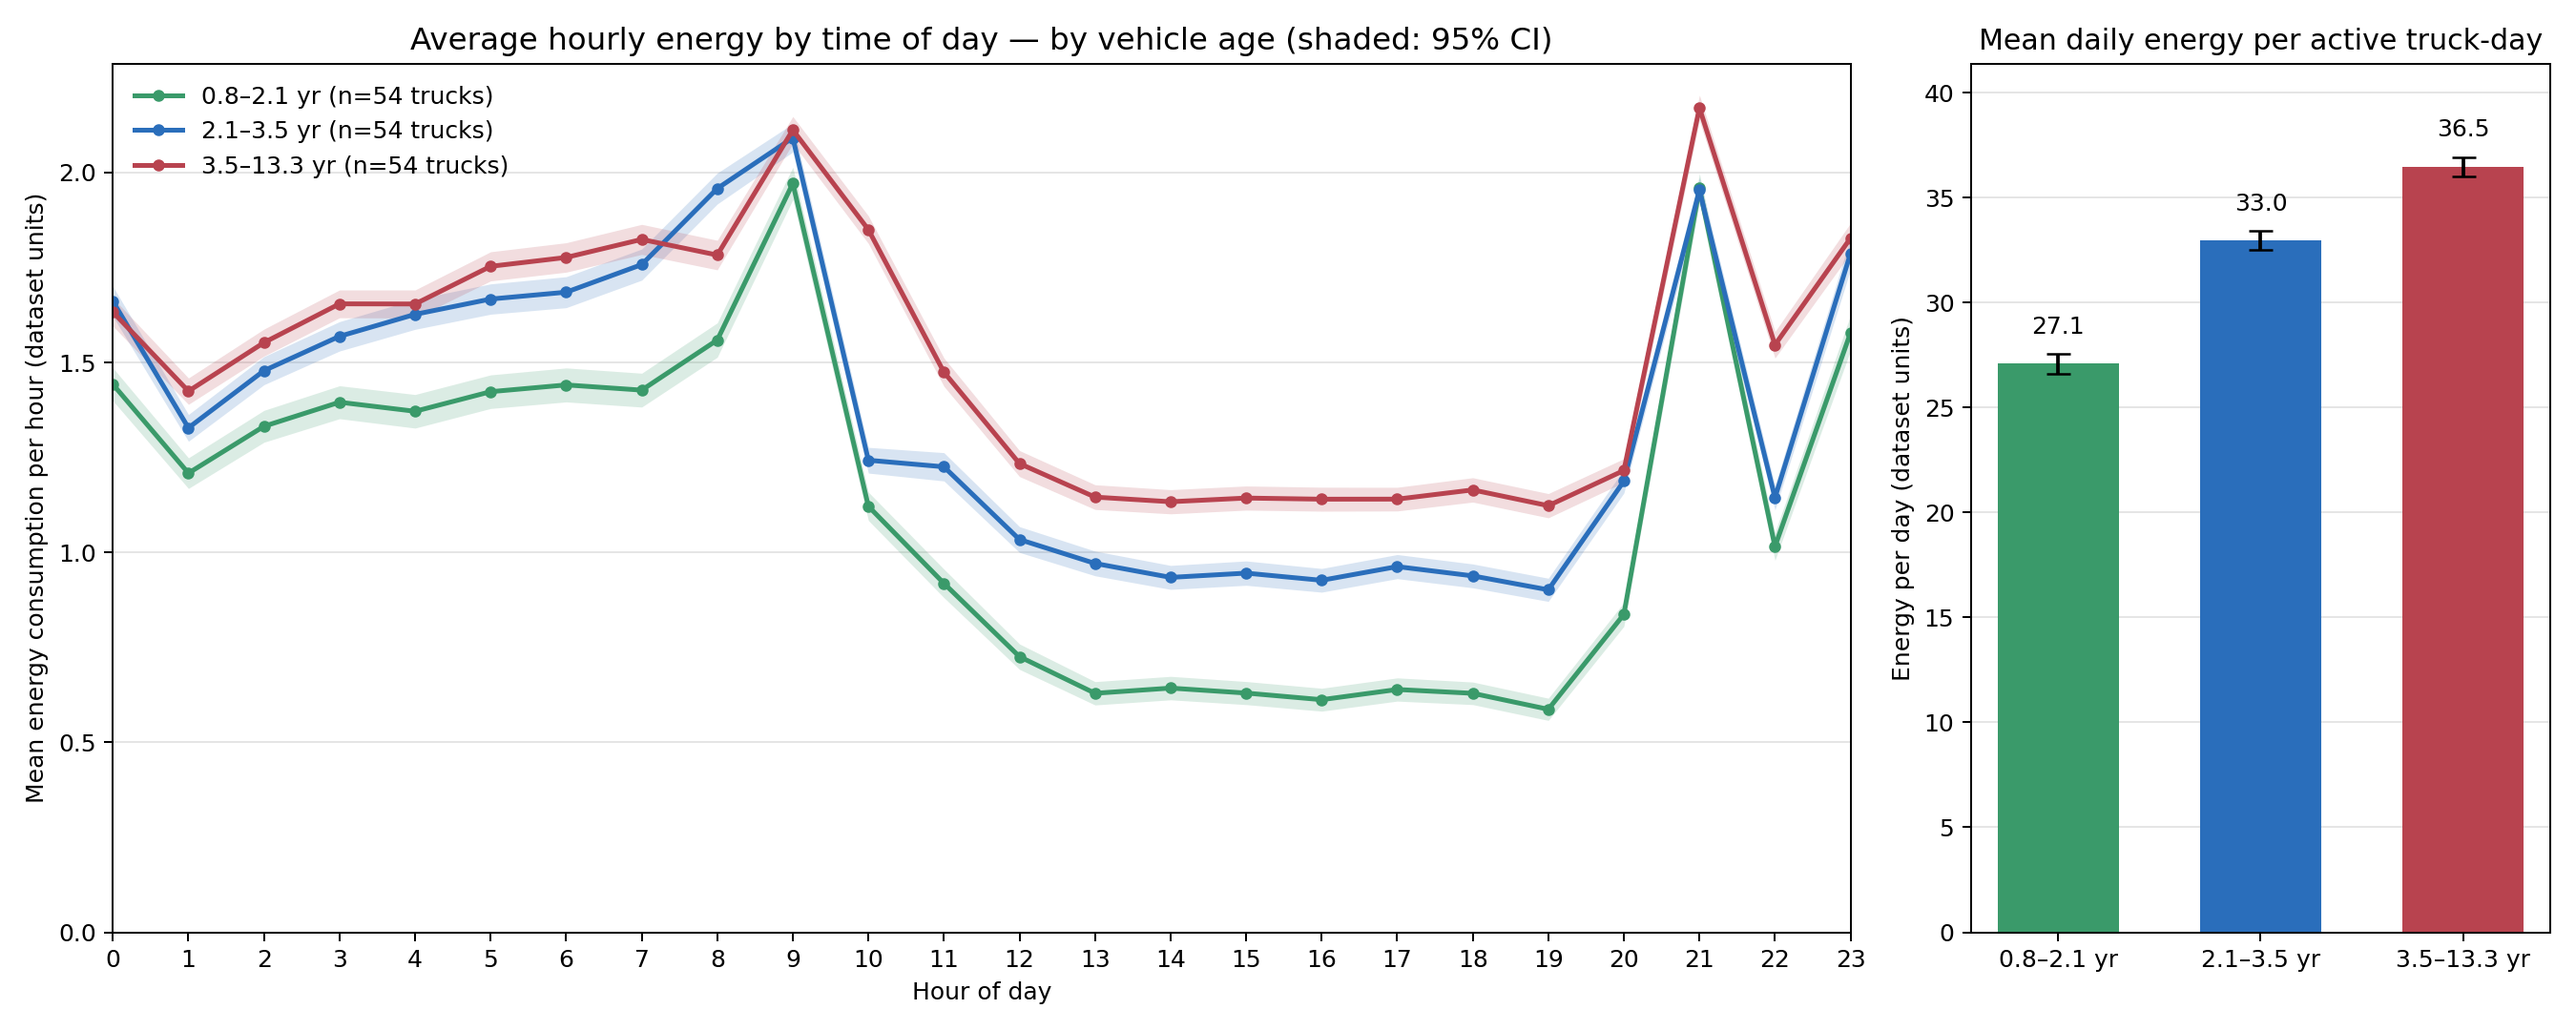
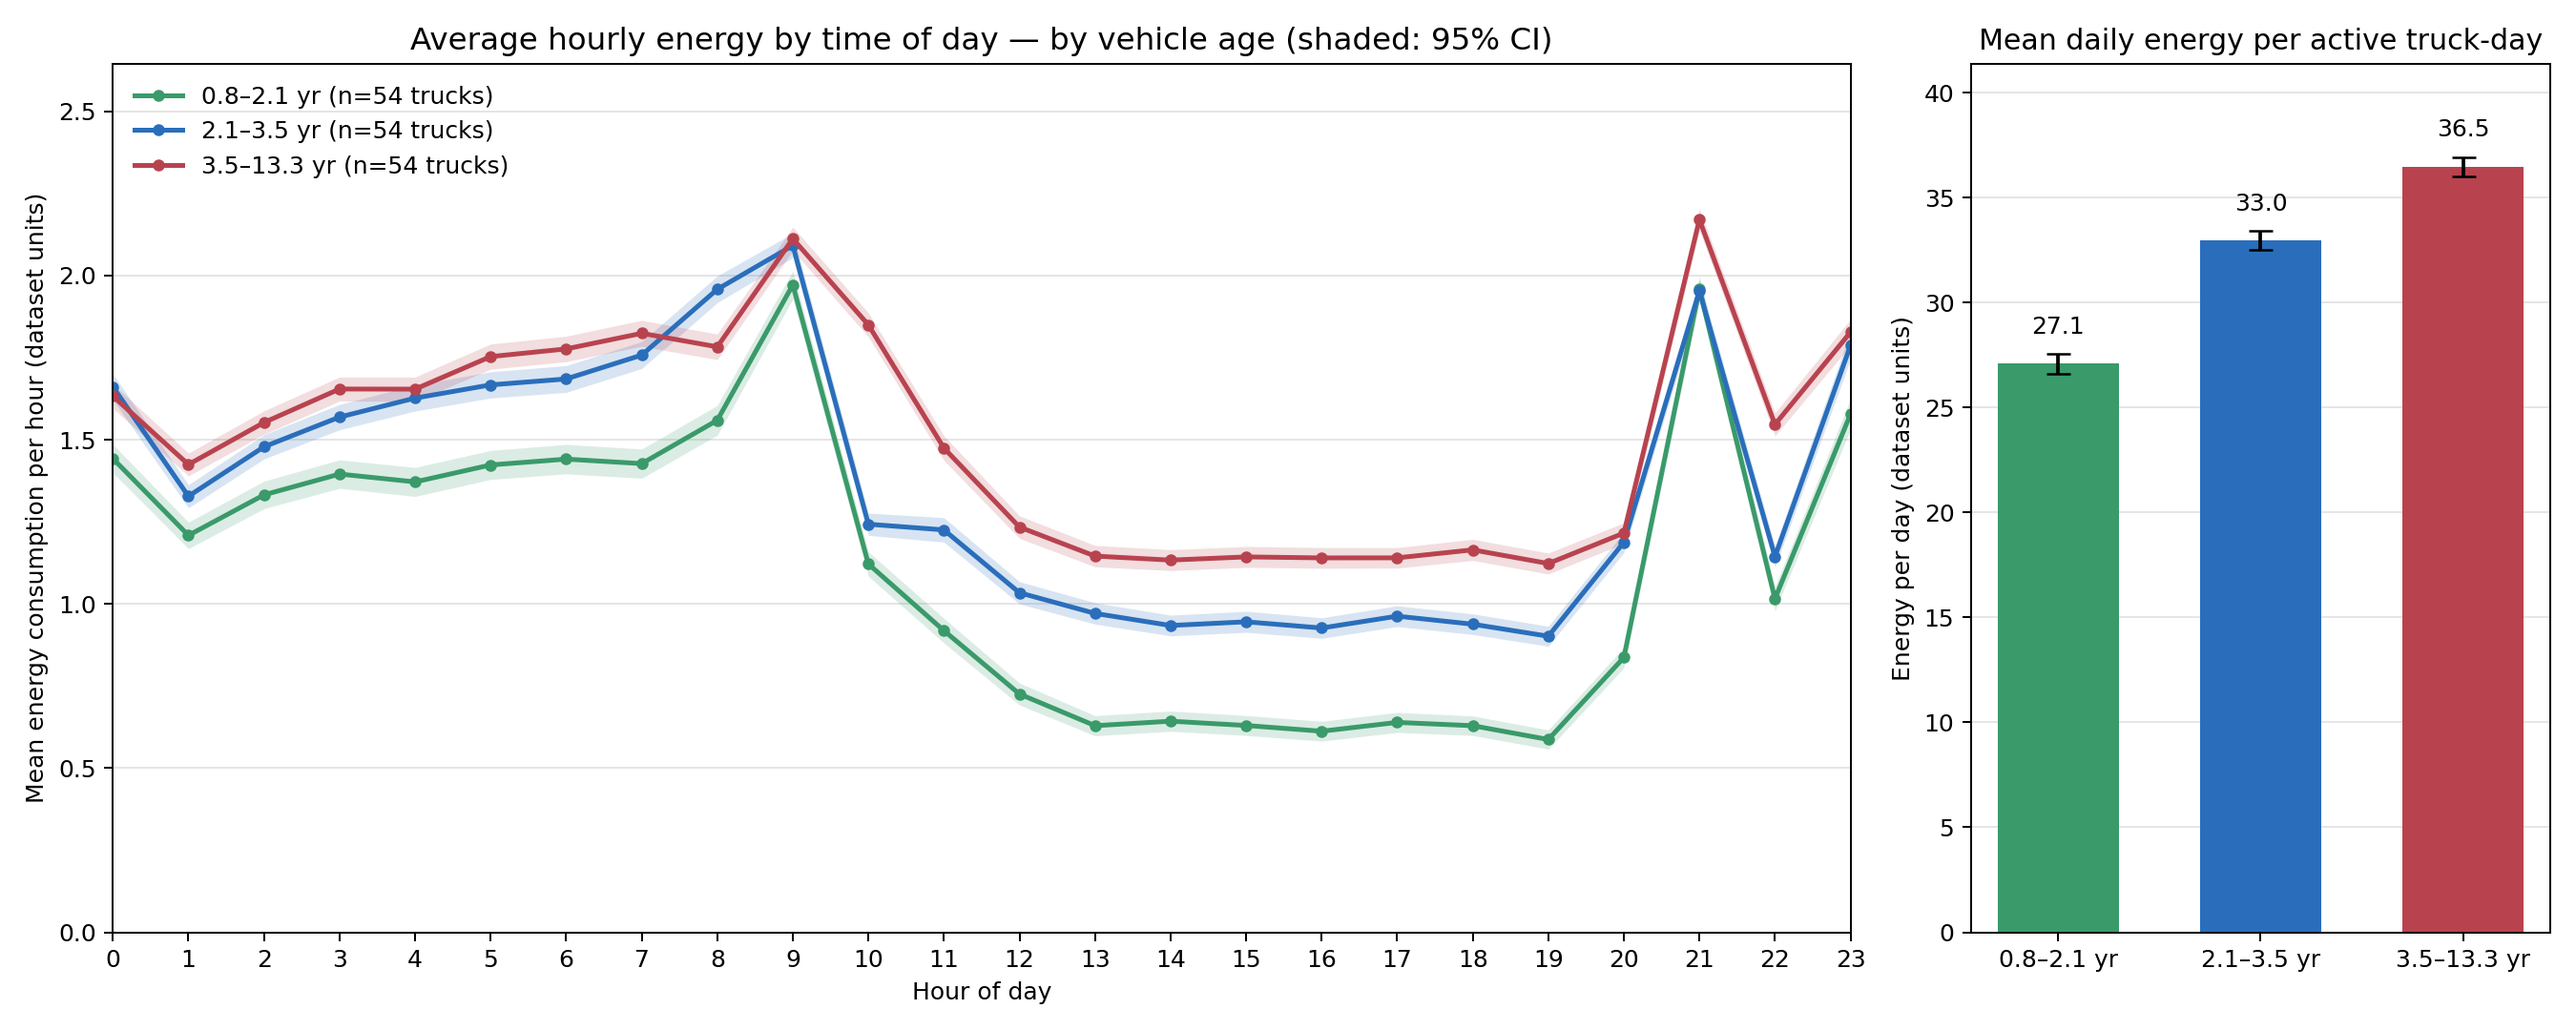
Add energy-by-odometer (km) tertile plot
Generalise the age tertile grouping to any fleet column, add Km's groups
as a fourth row of the combined figure, and leave legend headroom above
the lines in every group plot.

Changed region(s): [[0.0311, 0.0917, 0.7156, 0.7333]]

diff --git a/energy_uncertainty/plot_hourly_energy_by_time_of_day.py b/energy_uncertainty/plot_hourly_energy_by_time_of_day.py
@@ -80,6 +80,7 @@ def main():
         (category_groups(hourly), "truck_category_average_energy_by_time_of_day_ci.png"),
         (duty_cycle_groups(hourly), "duty_cycle_average_energy_by_time_of_day_ci.png"),
         (age_groups(hourly), "age_group_average_energy_by_time_of_day_ci.png"),
+        (km_groups(hourly), "km_group_average_energy_by_time_of_day_ci.png"),
     ]
 
     for grouping, fname in groupings:
@@ -89,8 +90,9 @@ def main():
         fig.savefig(HERE / fname)
         plt.close(fig)
 
-    fig, axes = plt.subplots(3, 2, figsize=(15, 18), dpi=180, gridspec_kw={"width_ratios": [3, 1]})
-    for (ax, bx), (grouping, _), tag in zip(axes, groupings, "abc"):
+    fig, axes = plt.subplots(len(groupings), 2, figsize=(15, 6 * len(groupings)), dpi=180,
+                             gridspec_kw={"width_ratios": [3, 1]})
+    for (ax, bx), (grouping, _), tag in zip(axes, groupings, "abcdefgh"):
         draw_groups(ax, bx, *grouping)
         ax.set_title(f"({tag}) {ax.get_title()}", fontsize=13)
     fig.tight_layout(h_pad=2.5)
@@ -112,17 +114,27 @@ def duty_cycle_groups(hourly: pd.DataFrame):
     return h, order, [DUTY_COLORS[d] for d in order], "duty cycle"
 
 
-def age_groups(hourly: pd.DataFrame):
-    """Energy by vehicle age, split into three equal-count groups (tertiles)."""
-    fleet = pd.read_csv(FLEET, usecols=["VehicleId", "Age"]).dropna()
+def tertile_groups(hourly: pd.DataFrame, column: str, fmt, unit: str, what: str):
+    """Split trucks into three equal-count groups (tertiles) on a fleet column."""
+    fleet = pd.read_csv(FLEET, usecols=["VehicleId", column]).dropna()
     fleet = fleet.rename(columns={"VehicleId": "TruckId"})
     fleet["TruckId"] = fleet["TruckId"].astype(int)
     fleet = fleet[fleet["TruckId"].isin(hourly["TruckId"].unique())]
-    edges = fleet["Age"].quantile([0, 1 / 3, 2 / 3, 1]).to_numpy()
-    labels = [f"{edges[0]:.1f}–{edges[1]:.1f} yr", f"{edges[1]:.1f}–{edges[2]:.1f} yr", f"{edges[2]:.1f}–{edges[3]:.1f} yr"]
-    fleet["group"] = pd.qcut(fleet["Age"], 3, labels=labels).astype(str)
+    edges = fleet[column].quantile([0, 1 / 3, 2 / 3, 1]).to_numpy()
+    labels = [f"{fmt(lo)}–{fmt(hi)} {unit}" for lo, hi in zip(edges[:-1], edges[1:])]
+    fleet["group"] = pd.qcut(fleet[column], 3, labels=labels).astype(str)
     h = hourly.merge(fleet[["TruckId", "group"]], on="TruckId", how="inner")
-    return h, labels, AGE_COLORS, "vehicle age"
+    return h, labels, AGE_COLORS, what
+
+
+def age_groups(hourly: pd.DataFrame):
+    """Energy by vehicle age, split into tertiles."""
+    return tertile_groups(hourly, "Age", lambda v: f"{v:.1f}", "yr", "vehicle age")
+
+
+def km_groups(hourly: pd.DataFrame):
+    """Energy by odometer reading (Km's), split into tertiles."""
+    return tertile_groups(hourly, "Km's", lambda v: f"{v / 1000:.0f}k", "km", "odometer (km)")
 
 
 def draw_groups(ax, bx, h: pd.DataFrame, order: list[str], colors: list[str], what: str) -> None:
@@ -136,8 +148,8 @@ def draw_groups(ax, bx, h: pd.DataFrame, order: list[str], colors: list[str], wh
         ax.plot(d["hour_of_day"], d["mean"], color=c, lw=2, marker="o", ms=4, label=f"{g} (n={n_trucks[g]} trucks)")
     style(ax, f"Average hourly energy by time of day — by {what} (shaded: 95% CI)")
     many = len(order) > 4
-    if many:  # leave room above the lines for the two-column legend
-        ax.set_ylim(0, s["hi"].max() * 1.35)
+    # leave room above the lines for the legend
+    ax.set_ylim(0, s["hi"].max() * (1.35 if many else 1.2))
     ax.legend(frameon=False, loc="upper left", ncol=2 if many else 1, fontsize=9 if many else 10)
 
     daily = h.groupby(["TruckId", "group", "month", "day"], as_index=False)["energy_consumption"].sum()
